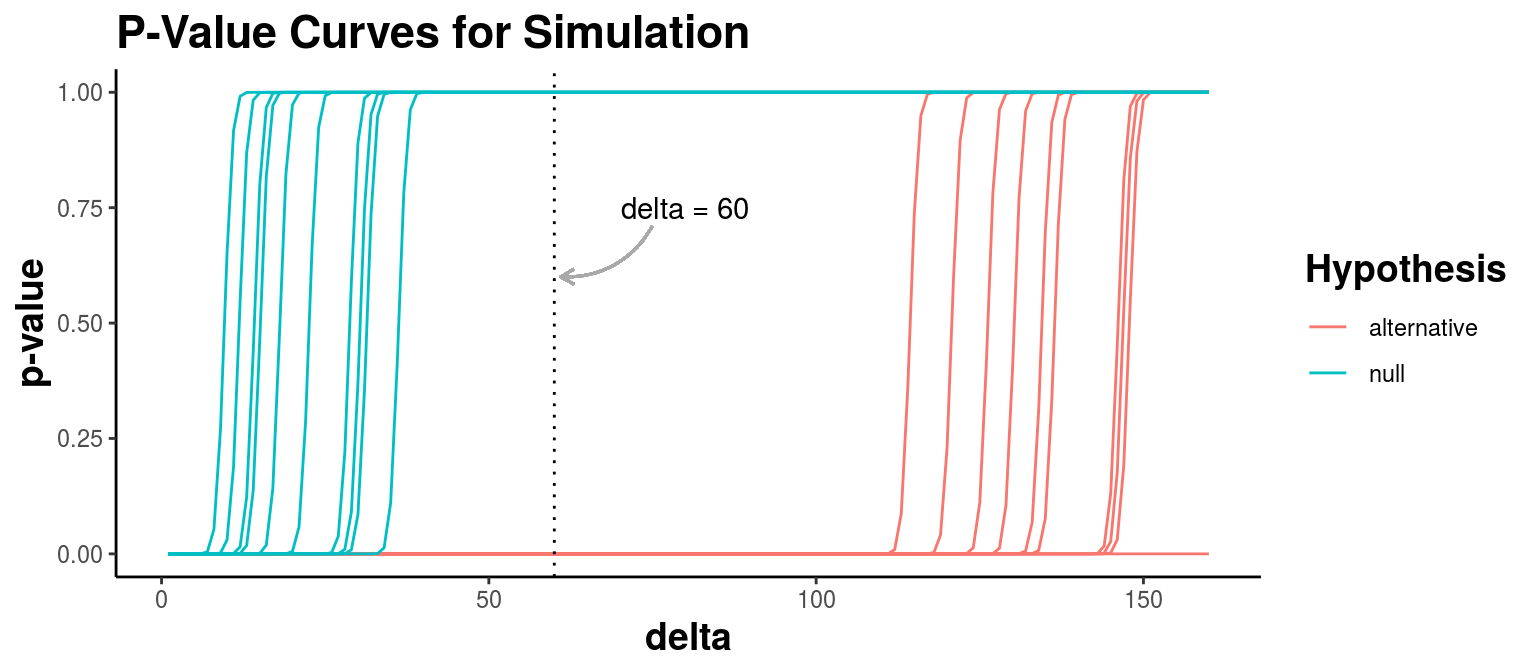
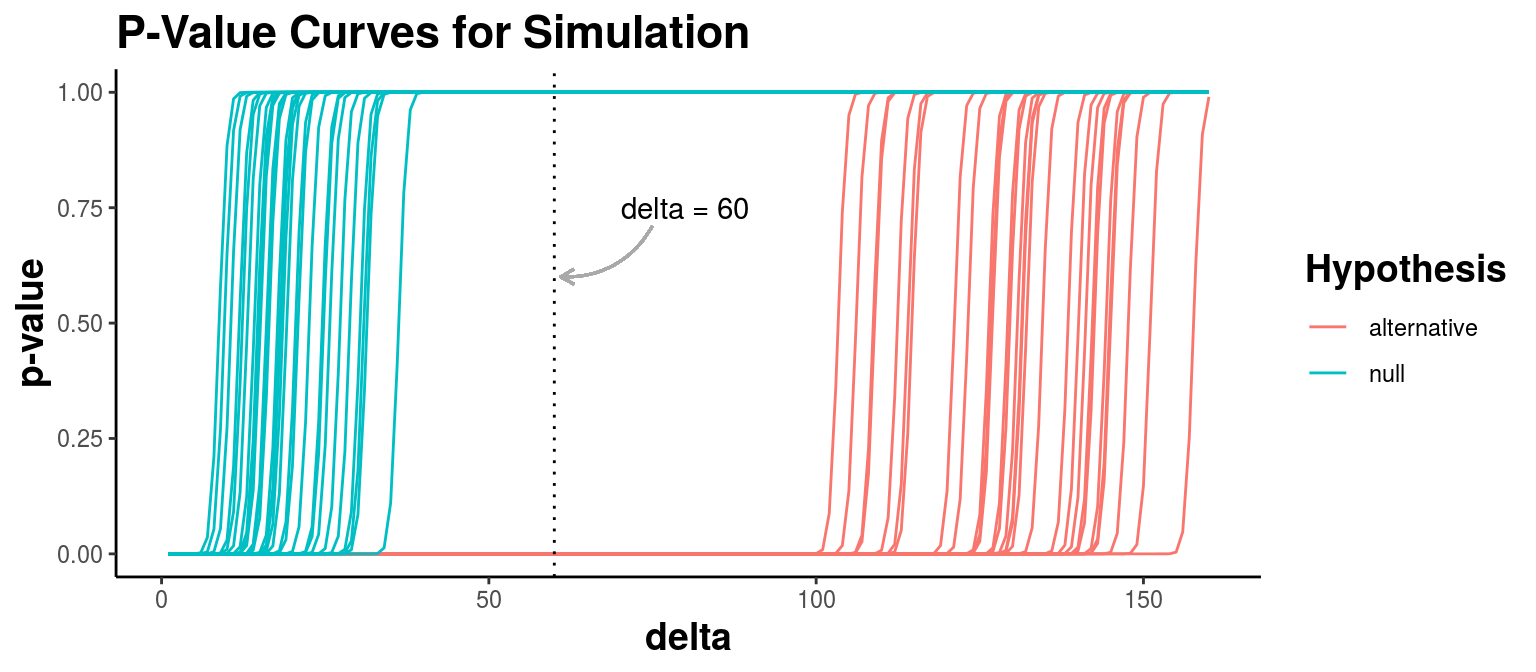
Updated number of default reps in simulation function

Changed region(s): [[0.5312, 0.125, 0.7812, 0.8438], [0.125, 0.125, 0.25, 0.8438]]

diff --git a/content/post/2019-05-24-new-r-package-hddtest.html b/content/post/2019-05-24-new-r-package-hddtest.html
@@ -43,7 +43,7 @@ vecs2Test[[2]] &lt;- twoNewsGroups$sci.med[group_2, ] %&gt;%
 #&gt;      [,1]
 #&gt; [1,]    1</code></pre>
 <p>How to choose the appropriate <code>delta</code>? The answer may come from subject matter expertise about the problem domain. Or you can run a simulation to gain insight. Below we define a simulation function.</p>
-<pre class="r"><code>simulation &lt;- function(data, null_hyp, delta, reps = 10, num_docs = c(200, 200)){
+<pre class="r"><code>simulation &lt;- function(data, null_hyp, delta, reps = 30, num_docs = c(200, 200)){
   
    vecs2Test &lt;- list(matrix(NA, reps, ncol(data[[1]])), matrix(NA, reps, ncol(data[[1]])))
    
